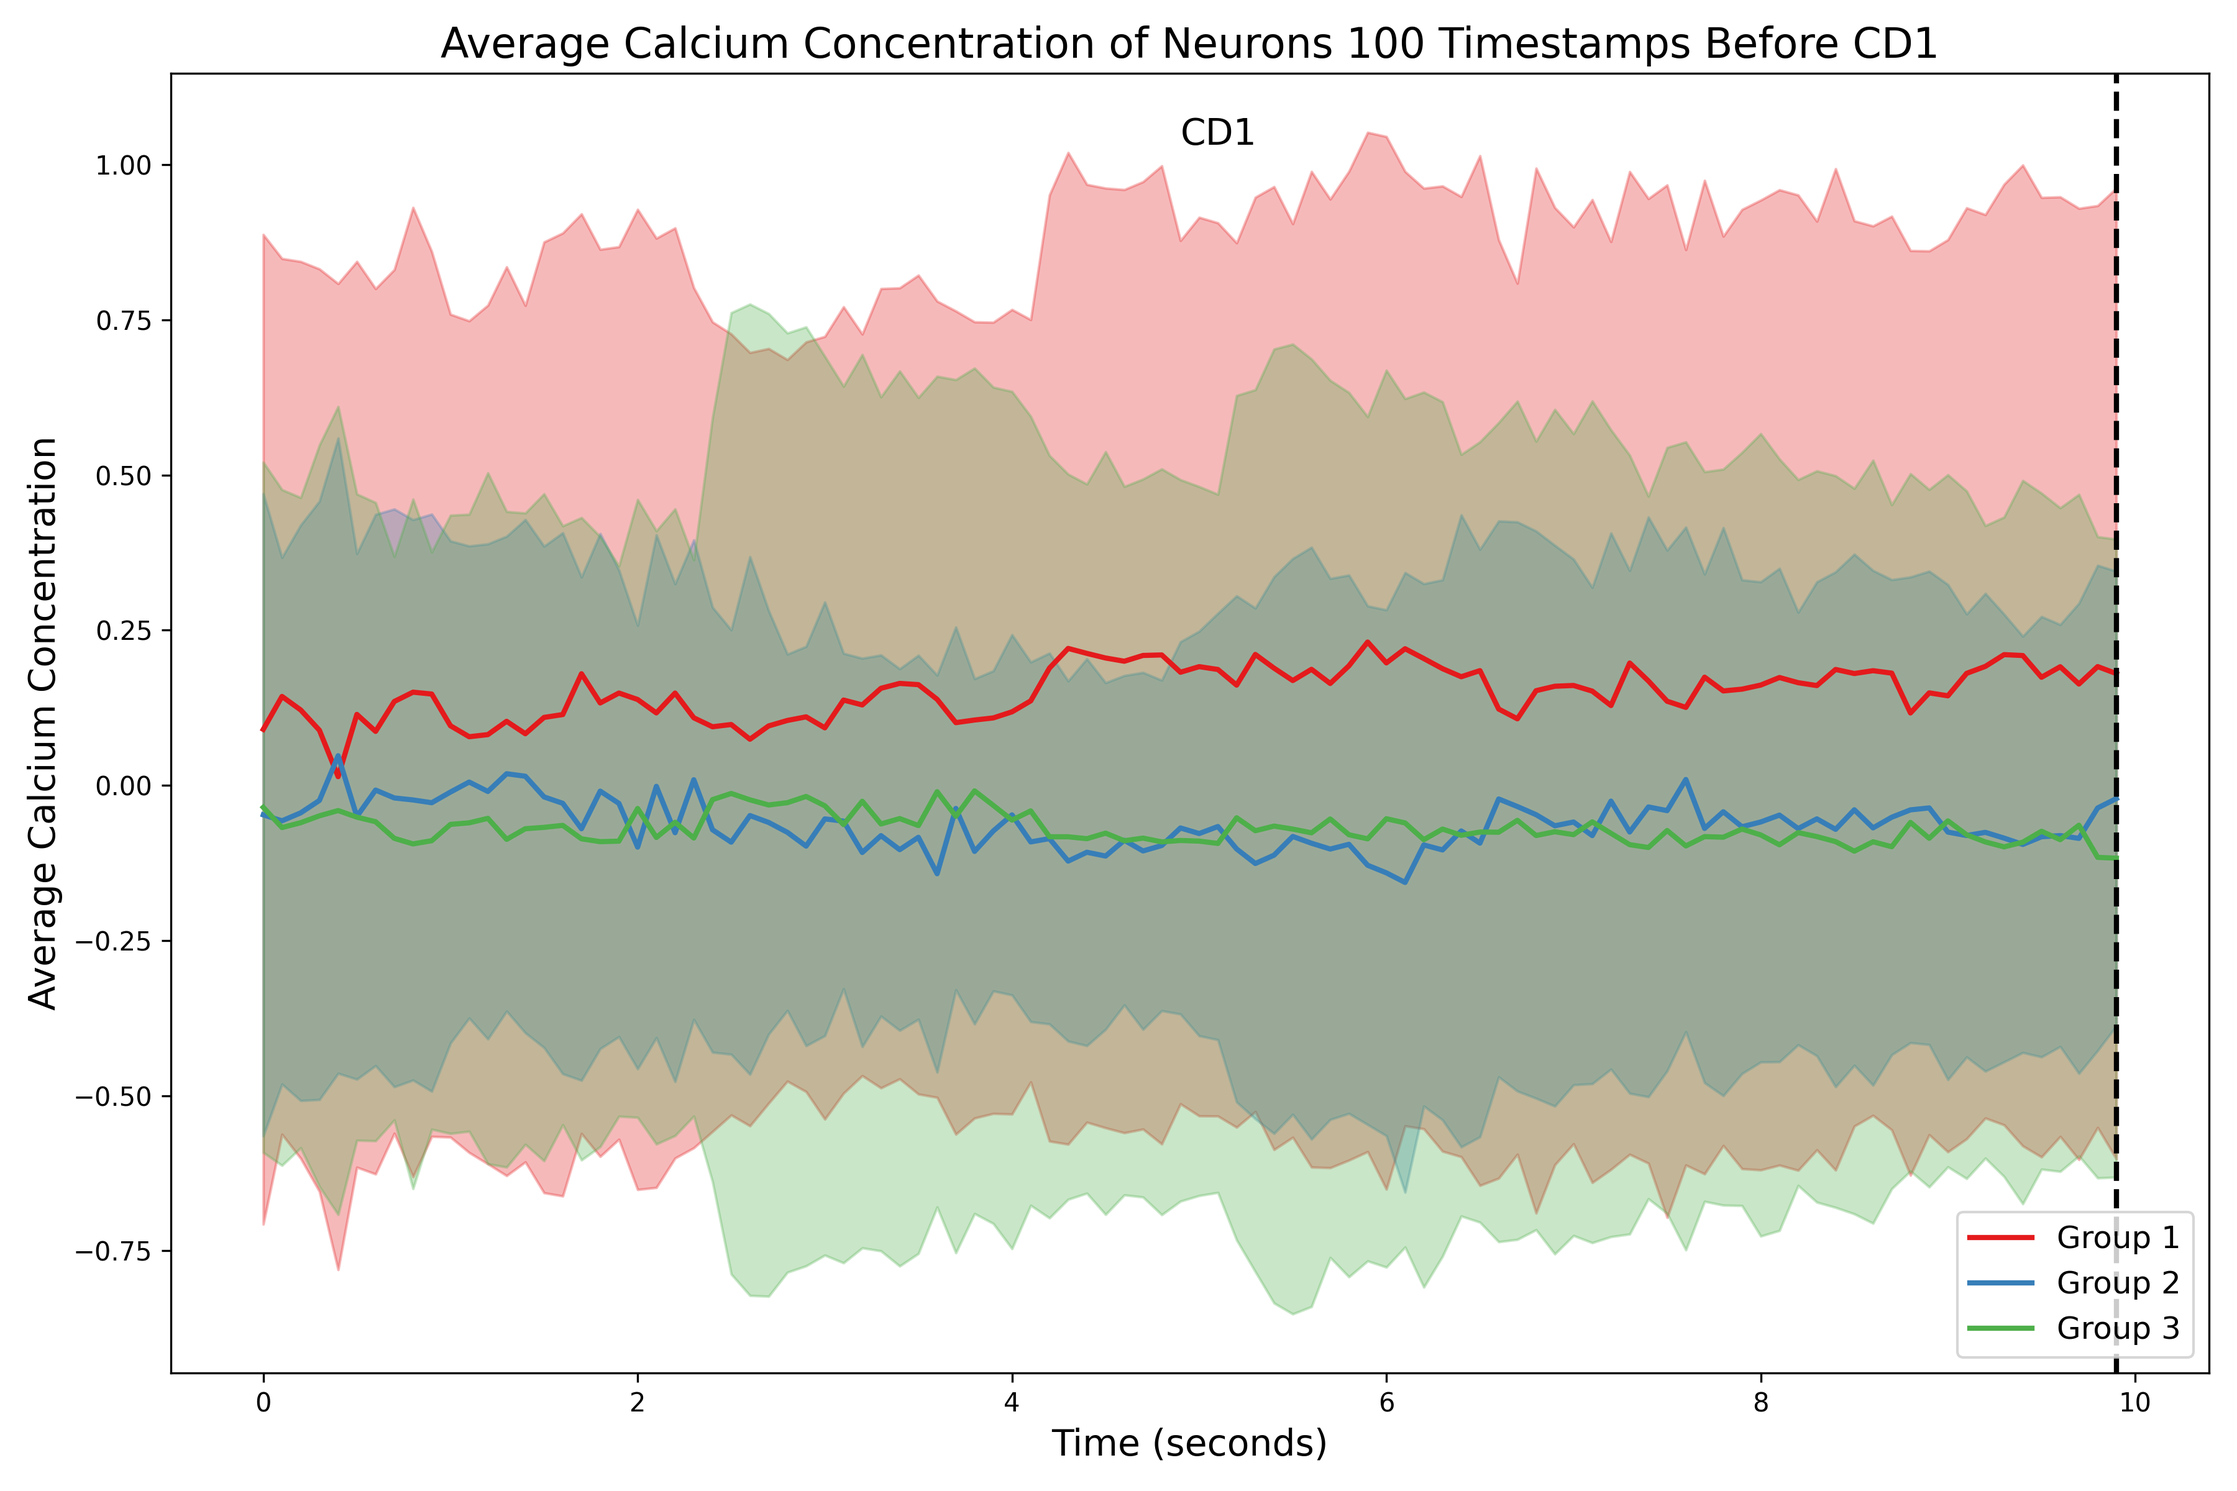
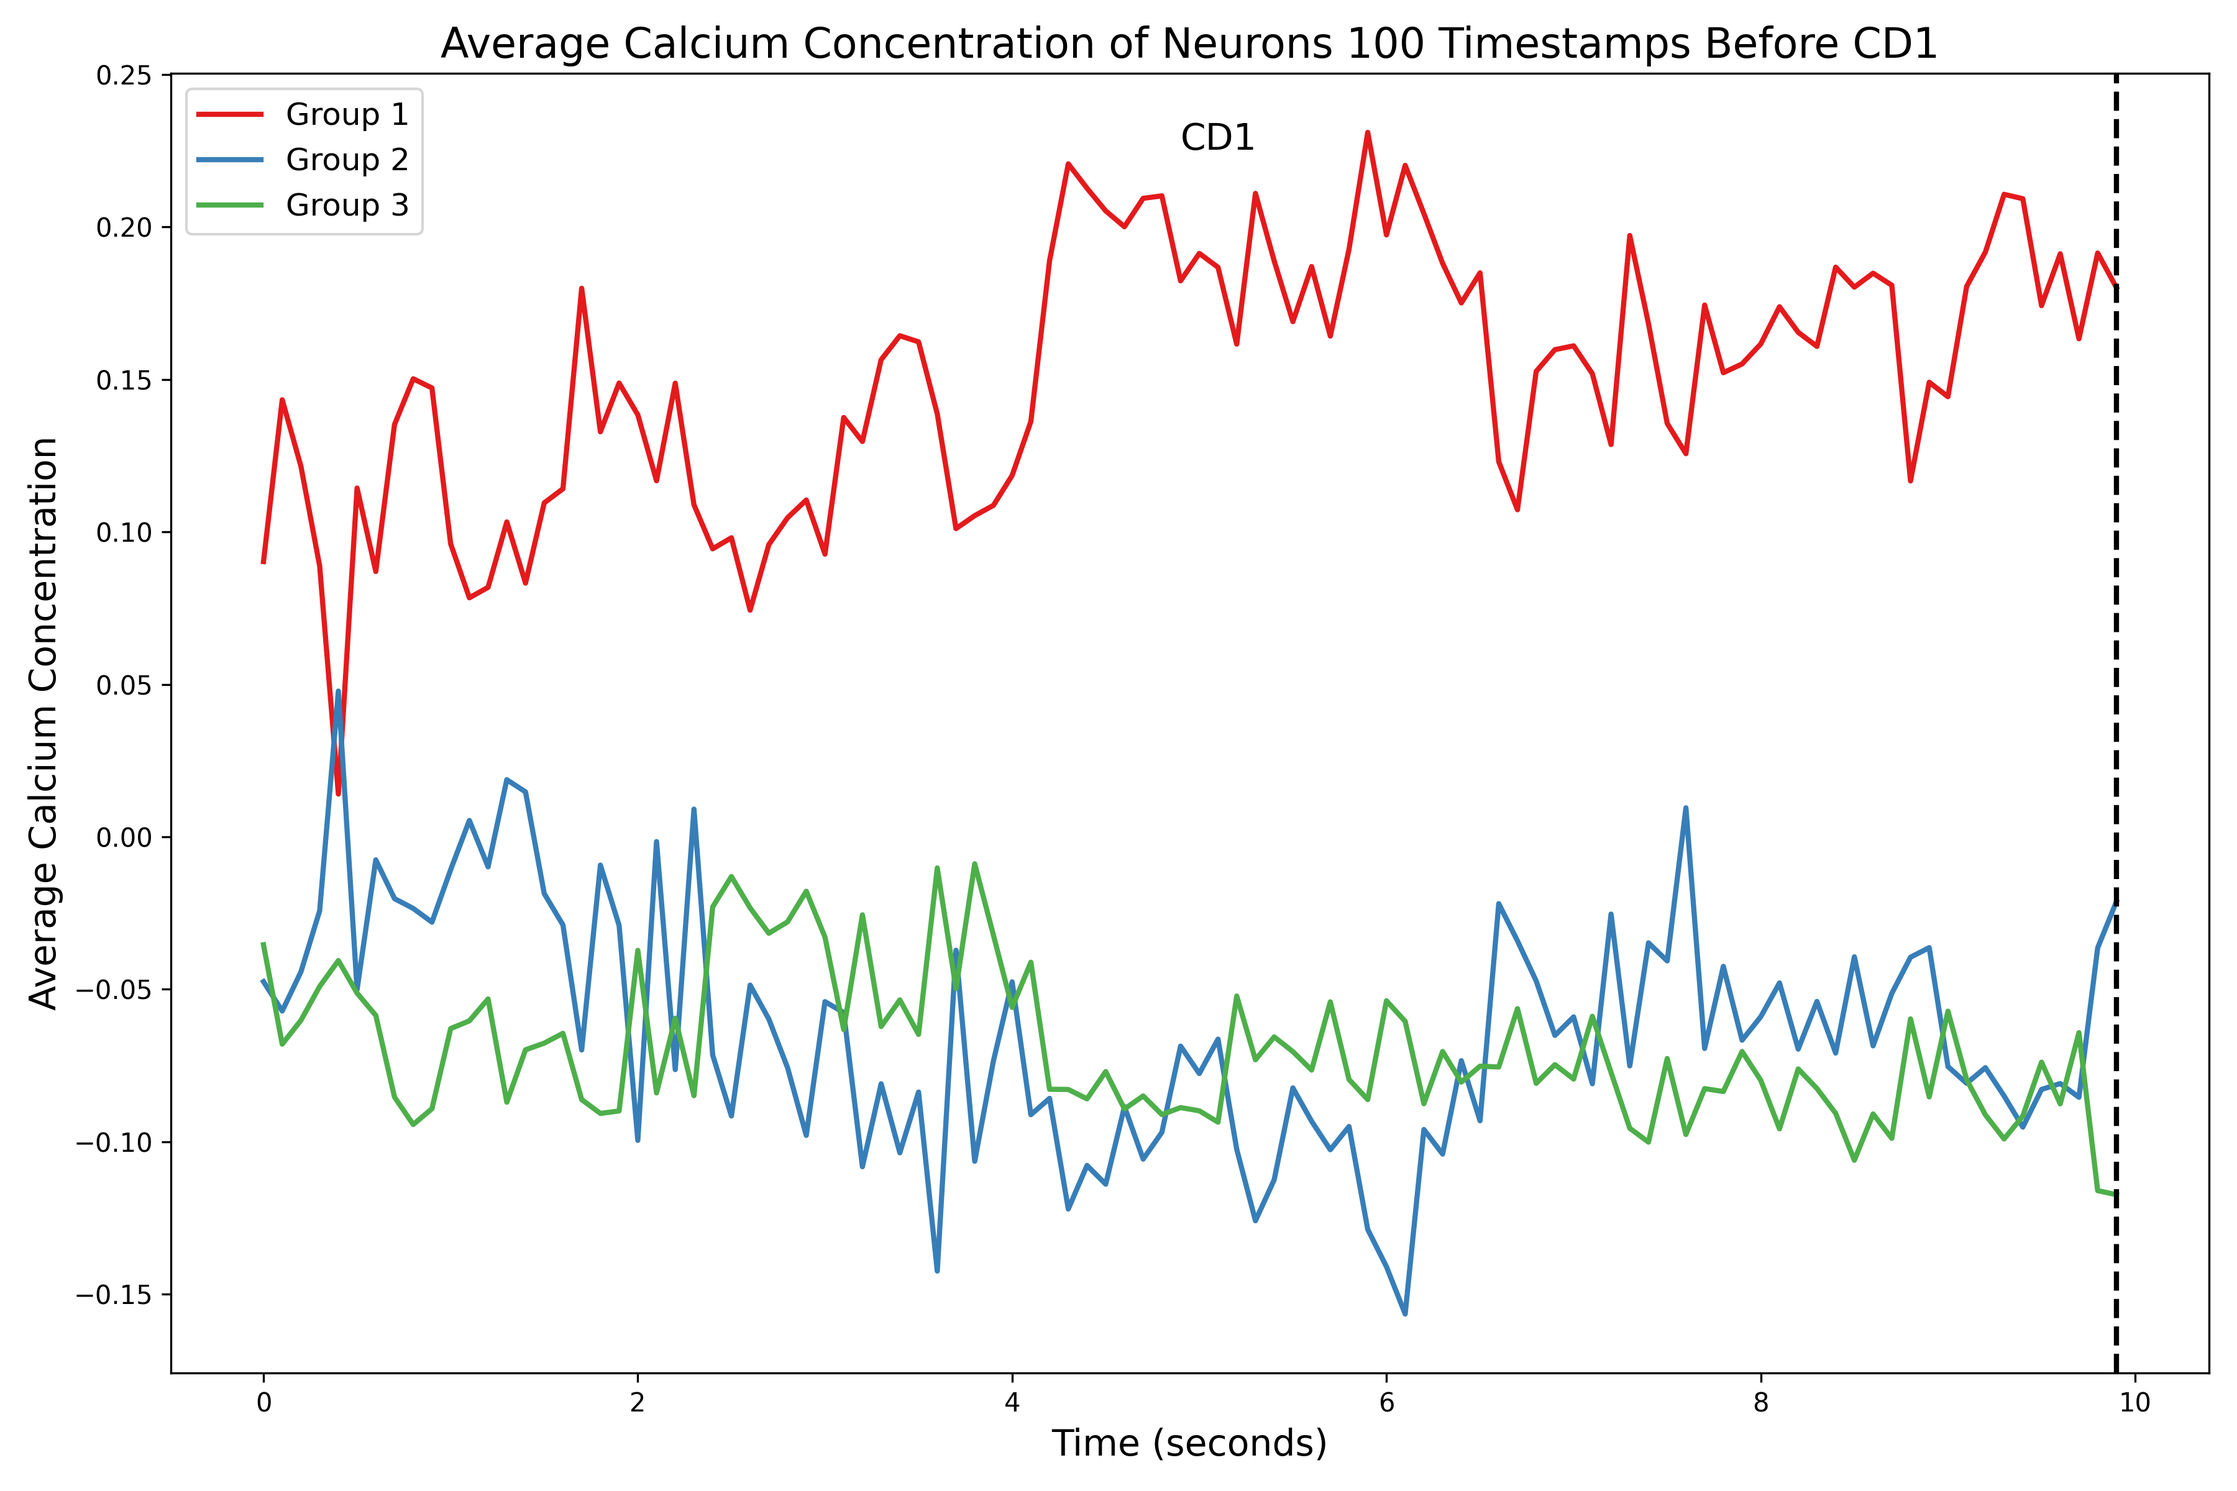
showwave

diff --git a/Visualization/src/show_trace.py b/Visualization/src/show_trace.py
@@ -20,6 +20,8 @@ def parse_args():
                         help='CD1标签前的时间戳数量')
     parser.add_argument('--after-stamps', type=int, default=100,
                         help='CD1标签后的时间戳数量')
+    parser.add_argument('--no-shadow', action='store_true',
+                        help='不显示标准差阴影区域')
     return parser.parse_args()
 
 def ensure_dir(directory):
@@ -150,7 +152,7 @@ GROUP_COLORS = {
     'group3': '#4DAF4A'   # 绿色
 }
 
-def plot_trace_before_cd1(data, cd1_index, n_stamps, output_path):
+def plot_trace_before_cd1(data, cd1_index, n_stamps, output_path, show_shadow=True):
     """
     绘制CD1标签前n_stamps个时间戳的神经元组平均钙离子浓度轨迹图
     
@@ -159,6 +161,7 @@ def plot_trace_before_cd1(data, cd1_index, n_stamps, output_path):
         cd1_index: CD1标签首次出现的索引
         n_stamps: 要绘制的时间戳数量
         output_path: 输出图像路径
+        show_shadow: 是否显示标准差阴影区域
     """
     if cd1_index is None or cd1_index < n_stamps:
         print(f"警告: CD1标签前的数据不足{n_stamps}个时间戳，将使用所有可用数据")
@@ -172,7 +175,6 @@ def plot_trace_before_cd1(data, cd1_index, n_stamps, output_path):
     plot_data = data.iloc[start_idx:end_idx+1].copy()
     
     # 创建相对时间轴（以秒为单位，假设每个时间戳间隔为0.1秒）
-    # 注意：这里调整为从0开始，到CD1出现前的时间
     plot_data['relative_time'] = [(i * 0.1) for i in range(len(plot_data))]
     
     # 创建图像
@@ -182,26 +184,29 @@ def plot_trace_before_cd1(data, cd1_index, n_stamps, output_path):
     # Group 1
     plt.plot(plot_data['relative_time'], plot_data['group1_avg'], 
              color=GROUP_COLORS['group1'], label='Group 1', linewidth=2)
-    plt.fill_between(plot_data['relative_time'], 
-                     plot_data['group1_avg'] - plot_data['group1_std'],
-                     plot_data['group1_avg'] + plot_data['group1_std'],
-                     color=GROUP_COLORS['group1'], alpha=0.3)
+    if show_shadow:
+        plt.fill_between(plot_data['relative_time'], 
+                         plot_data['group1_avg'] - plot_data['group1_std'],
+                         plot_data['group1_avg'] + plot_data['group1_std'],
+                         color=GROUP_COLORS['group1'], alpha=0.3)
     
     # Group 2
     plt.plot(plot_data['relative_time'], plot_data['group2_avg'], 
              color=GROUP_COLORS['group2'], label='Group 2', linewidth=2)
-    plt.fill_between(plot_data['relative_time'], 
-                     plot_data['group2_avg'] - plot_data['group2_std'],
-                     plot_data['group2_avg'] + plot_data['group2_std'],
-                     color=GROUP_COLORS['group2'], alpha=0.3)
+    if show_shadow:
+        plt.fill_between(plot_data['relative_time'], 
+                         plot_data['group2_avg'] - plot_data['group2_std'],
+                         plot_data['group2_avg'] + plot_data['group2_std'],
+                         color=GROUP_COLORS['group2'], alpha=0.3)
     
     # Group 3
     plt.plot(plot_data['relative_time'], plot_data['group3_avg'], 
              color=GROUP_COLORS['group3'], label='Group 3', linewidth=2)
-    plt.fill_between(plot_data['relative_time'], 
-                     plot_data['group3_avg'] - plot_data['group3_std'],
-                     plot_data['group3_avg'] + plot_data['group3_std'],
-                     color=GROUP_COLORS['group3'], alpha=0.3)
+    if show_shadow:
+        plt.fill_between(plot_data['relative_time'], 
+                         plot_data['group3_avg'] - plot_data['group3_std'],
+                         plot_data['group3_avg'] + plot_data['group3_std'],
+                         color=GROUP_COLORS['group3'], alpha=0.3)
     
     # 添加图例和标签
     plt.legend(fontsize=12)
@@ -223,7 +228,7 @@ def plot_trace_before_cd1(data, cd1_index, n_stamps, output_path):
     
     print(f"CD1前轨迹图已保存至: {output_path}")
 
-def plot_trace_after_cd1(data, cd1_index, n_stamps, output_path):
+def plot_trace_after_cd1(data, cd1_index, n_stamps, output_path, show_shadow=True):
     """
     绘制CD1标签后n_stamps个时间戳的神经元组平均钙离子浓度轨迹图
     
@@ -232,6 +237,7 @@ def plot_trace_after_cd1(data, cd1_index, n_stamps, output_path):
         cd1_index: CD1标签首次出现的索引
         n_stamps: 要绘制的时间戳数量
         output_path: 输出图像路径
+        show_shadow: 是否显示标准差阴影区域
     """
     if cd1_index is None:
         print("警告: 未找到CD1标签，无法绘制CD1后的图表")
@@ -247,7 +253,6 @@ def plot_trace_after_cd1(data, cd1_index, n_stamps, output_path):
     plot_data = data.iloc[cd1_index:end_idx+1].copy()
     
     # 创建相对时间轴（以秒为单位，假设每个时间戳间隔为0.1秒）
-    # 注意：这里调整为从0开始，表示从CD1出现开始的时间
     plot_data['relative_time'] = [(i * 0.1) for i in range(len(plot_data))]
     
     # 创建图像
@@ -257,26 +262,29 @@ def plot_trace_after_cd1(data, cd1_index, n_stamps, output_path):
     # Group 1
     plt.plot(plot_data['relative_time'], plot_data['group1_avg'], 
              color=GROUP_COLORS['group1'], label='Group 1', linewidth=2)
-    plt.fill_between(plot_data['relative_time'], 
-                     plot_data['group1_avg'] - plot_data['group1_std'],
-                     plot_data['group1_avg'] + plot_data['group1_std'],
-                     color=GROUP_COLORS['group1'], alpha=0.3)
+    if show_shadow:
+        plt.fill_between(plot_data['relative_time'], 
+                         plot_data['group1_avg'] - plot_data['group1_std'],
+                         plot_data['group1_avg'] + plot_data['group1_std'],
+                         color=GROUP_COLORS['group1'], alpha=0.3)
     
     # Group 2
     plt.plot(plot_data['relative_time'], plot_data['group2_avg'], 
              color=GROUP_COLORS['group2'], label='Group 2', linewidth=2)
-    plt.fill_between(plot_data['relative_time'], 
-                     plot_data['group2_avg'] - plot_data['group2_std'],
-                     plot_data['group2_avg'] + plot_data['group2_std'],
-                     color=GROUP_COLORS['group2'], alpha=0.3)
+    if show_shadow:
+        plt.fill_between(plot_data['relative_time'], 
+                         plot_data['group2_avg'] - plot_data['group2_std'],
+                         plot_data['group2_avg'] + plot_data['group2_std'],
+                         color=GROUP_COLORS['group2'], alpha=0.3)
     
     # Group 3
     plt.plot(plot_data['relative_time'], plot_data['group3_avg'], 
              color=GROUP_COLORS['group3'], label='Group 3', linewidth=2)
-    plt.fill_between(plot_data['relative_time'], 
-                     plot_data['group3_avg'] - plot_data['group3_std'],
-                     plot_data['group3_avg'] + plot_data['group3_std'],
-                     color=GROUP_COLORS['group3'], alpha=0.3)
+    if show_shadow:
+        plt.fill_between(plot_data['relative_time'], 
+                         plot_data['group3_avg'] - plot_data['group3_std'],
+                         plot_data['group3_avg'] + plot_data['group3_std'],
+                         color=GROUP_COLORS['group3'], alpha=0.3)
     
     # 添加图例和标签
     plt.legend(fontsize=12)
@@ -298,7 +306,7 @@ def plot_trace_after_cd1(data, cd1_index, n_stamps, output_path):
     
     print(f"CD1后轨迹图已保存至: {output_path}")
 
-def plot_combined_cd1_trace(data, cd1_index, before_stamps, after_stamps, output_path):
+def plot_combined_cd1_trace(data, cd1_index, before_stamps, after_stamps, output_path, show_shadow=True):
     """
     在同一个图中绘制CD1标签前后的神经元组平均钙离子浓度轨迹图
     
@@ -308,6 +316,7 @@ def plot_combined_cd1_trace(data, cd1_index, before_stamps, after_stamps, output
         before_stamps: CD1标签前的时间戳数量
         after_stamps: CD1标签后的时间戳数量
         output_path: 输出图像路径
+        show_shadow: 是否显示标准差阴影区域
     """
     if cd1_index is None:
         print("警告: 未找到CD1标签，无法绘制组合图表")
@@ -345,51 +354,57 @@ def plot_combined_cd1_trace(data, cd1_index, before_stamps, after_stamps, output
     # Group 1
     plt.plot(before_data['relative_time'], before_data['group1_avg'], 
              color=GROUP_COLORS['group1'], label='Group 1', linewidth=2)
-    plt.fill_between(before_data['relative_time'], 
-                     before_data['group1_avg'] - before_data['group1_std'],
-                     before_data['group1_avg'] + before_data['group1_std'],
-                     color=GROUP_COLORS['group1'], alpha=0.2)
+    if show_shadow:
+        plt.fill_between(before_data['relative_time'], 
+                         before_data['group1_avg'] - before_data['group1_std'],
+                         before_data['group1_avg'] + before_data['group1_std'],
+                         color=GROUP_COLORS['group1'], alpha=0.2)
     
     # Group 2
     plt.plot(before_data['relative_time'], before_data['group2_avg'], 
              color=GROUP_COLORS['group2'], label='Group 2', linewidth=2)
-    plt.fill_between(before_data['relative_time'], 
-                     before_data['group2_avg'] - before_data['group2_std'],
-                     before_data['group2_avg'] + before_data['group2_std'],
-                     color=GROUP_COLORS['group2'], alpha=0.2)
+    if show_shadow:
+        plt.fill_between(before_data['relative_time'], 
+                         before_data['group2_avg'] - before_data['group2_std'],
+                         before_data['group2_avg'] + before_data['group2_std'],
+                         color=GROUP_COLORS['group2'], alpha=0.2)
     
     # Group 3
     plt.plot(before_data['relative_time'], before_data['group3_avg'], 
              color=GROUP_COLORS['group3'], label='Group 3', linewidth=2)
-    plt.fill_between(before_data['relative_time'], 
-                     before_data['group3_avg'] - before_data['group3_std'],
-                     before_data['group3_avg'] + before_data['group3_std'],
-                     color=GROUP_COLORS['group3'], alpha=0.2)
+    if show_shadow:
+        plt.fill_between(before_data['relative_time'], 
+                         before_data['group3_avg'] - before_data['group3_std'],
+                         before_data['group3_avg'] + before_data['group3_std'],
+                         color=GROUP_COLORS['group3'], alpha=0.2)
     
     # 绘制CD1后的轨迹
     # Group 1
     plt.plot(after_data['relative_time'], after_data['group1_avg'], 
              color=GROUP_COLORS['group1'], linewidth=2)
-    plt.fill_between(after_data['relative_time'], 
-                     after_data['group1_avg'] - after_data['group1_std'],
-                     after_data['group1_avg'] + after_data['group1_std'],
-                     color=GROUP_COLORS['group1'], alpha=0.2)
+    if show_shadow:
+        plt.fill_between(after_data['relative_time'], 
+                         after_data['group1_avg'] - after_data['group1_std'],
+                         after_data['group1_avg'] + after_data['group1_std'],
+                         color=GROUP_COLORS['group1'], alpha=0.2)
     
     # Group 2
     plt.plot(after_data['relative_time'], after_data['group2_avg'], 
              color=GROUP_COLORS['group2'], linewidth=2)
-    plt.fill_between(after_data['relative_time'], 
-                     after_data['group2_avg'] - after_data['group2_std'],
-                     after_data['group2_avg'] + after_data['group2_std'],
-                     color=GROUP_COLORS['group2'], alpha=0.2)
+    if show_shadow:
+        plt.fill_between(after_data['relative_time'], 
+                         after_data['group2_avg'] - after_data['group2_std'],
+                         after_data['group2_avg'] + after_data['group2_std'],
+                         color=GROUP_COLORS['group2'], alpha=0.2)
     
     # Group 3
     plt.plot(after_data['relative_time'], after_data['group3_avg'], 
              color=GROUP_COLORS['group3'], linewidth=2)
-    plt.fill_between(after_data['relative_time'], 
-                     after_data['group3_avg'] - after_data['group3_std'],
-                     after_data['group3_avg'] + after_data['group3_std'],
-                     color=GROUP_COLORS['group3'], alpha=0.2)
+    if show_shadow:
+        plt.fill_between(after_data['relative_time'], 
+                         after_data['group3_avg'] - after_data['group3_std'],
+                         after_data['group3_avg'] + after_data['group3_std'],
+                         color=GROUP_COLORS['group3'], alpha=0.2)
     
     # 添加图例和标签
     plt.legend(fontsize=12)
@@ -404,6 +419,7 @@ def plot_combined_cd1_trace(data, cd1_index, before_stamps, after_stamps, output
     # 在图中标记CD1前后
     plt.text(-before_stamps*0.1*0.5, plt.ylim()[1]*0.85, 'Before CD1', fontsize=12, ha='center')
     plt.text(after_stamps*0.1*0.5, plt.ylim()[1]*0.85, 'After CD1', fontsize=12, ha='center')
+    
     # 网格线
     plt.grid(False)
     
@@ -440,14 +456,17 @@ def main():
     output_after_cd1 = os.path.join(args.output_dir, "trace_after_cd1.png")
     output_combined_cd1 = os.path.join(args.output_dir, "trace_combined_cd1.png")
     
+    # 控制是否显示阴影
+    show_shadow = not args.no_shadow
+    
     # 绘制CD1标签前的轨迹图
-    plot_trace_before_cd1(data_with_avgs, cd1_index, args.before_stamps, output_before_cd1)
+    plot_trace_before_cd1(data_with_avgs, cd1_index, args.before_stamps, output_before_cd1, show_shadow)
     
     # 绘制CD1标签后的轨迹图
-    plot_trace_after_cd1(data_with_avgs, cd1_index, args.after_stamps, output_after_cd1)
+    plot_trace_after_cd1(data_with_avgs, cd1_index, args.after_stamps, output_after_cd1, show_shadow)
     
     # 绘制CD1标签前后组合的轨迹图
-    plot_combined_cd1_trace(data_with_avgs, cd1_index, args.before_stamps, args.after_stamps, output_combined_cd1)
+    plot_combined_cd1_trace(data_with_avgs, cd1_index, args.before_stamps, args.after_stamps, output_combined_cd1, show_shadow)
     
     print("轨迹图绘制完成！")
 
